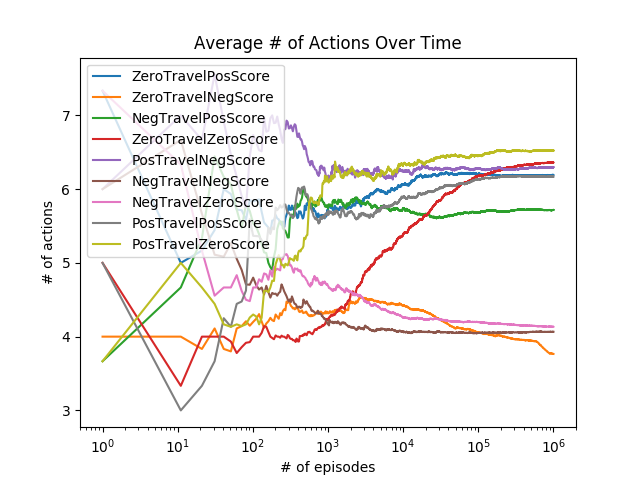
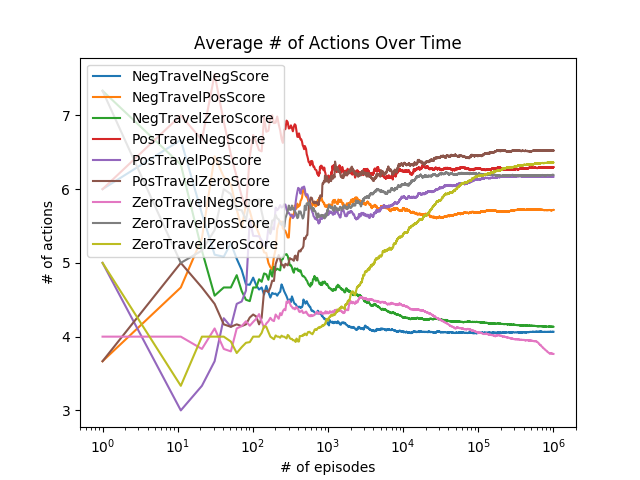
Added some results to the report.

Changed region(s): [[0.1562, 0.125, 0.875, 0.8438], [0.8125, 0.4062, 0.8438, 0.4375], [0.5938, 0.5, 0.625, 0.5312]]

diff --git a/report/result.tex b/report/result.tex
@@ -2,6 +2,116 @@
 
 \begin{document}
 
-\section*{\centering Result}
+    \section*{\centering Result}
+
+    In this part of the report we will present the result that have been gathered from our two experiments on reward functions and state representation. It will be presented in the order aforementioned.
+
+    \subsection*{Reward Experiment}
+
+    In this section the results given by the reward experiment are presented. All the following plots will show the same results for the different algorithms. Note that the left column contains result using the board state representation and the right column is result for using the directional distance state. All the results have been averaged over 3 different runs.
+
+    \begin{figure}[ht]
+        \centering
+        \begin{subfigure}[b]{.35\linewidth}
+            \includegraphics[width=\linewidth]{../images/qlearning/reward/234/board_state_average_food_count_over_time.png}
+        \end{subfigure}
+        \begin{subfigure}[b]{.35\linewidth}
+            \includegraphics[width=\linewidth]{../images/qlearning/reward/234/directional_distance_state_average_food_count_over_time.png}
+        \end{subfigure}
+
+        \begin{subfigure}[b]{.35\linewidth}
+            \includegraphics[width=\linewidth]{../images/qlearning/reward/234/board_state_average_reward_over_time.png}
+        \end{subfigure}
+        \begin{subfigure}[b]{.35\linewidth}
+            \includegraphics[width=\linewidth]{../images/qlearning/reward/234/directional_distance_state_average_reward_over_time.png}
+        \end{subfigure}
+        \caption{Results generated by Q-Learning.}
+        \label{fig:reward_result_qlearning}
+    \end{figure}
+
+    \begin{figure}[ht]
+        \centering
+        \begin{subfigure}[b]{.35\linewidth}
+            \includegraphics[width=\linewidth]{../images/sarsa/reward/234/board_state_average_food_count_over_time.png}
+        \end{subfigure}
+        \begin{subfigure}[b]{.35\linewidth}
+            \includegraphics[width=\linewidth]{../images/sarsa/reward/234/directional_distance_state_average_food_count_over_time.png}
+        \end{subfigure}
+
+        \begin{subfigure}[b]{.35\linewidth}
+            \includegraphics[width=\linewidth]{../images/sarsa/reward/234/board_state_average_reward_over_time.png}
+        \end{subfigure}
+        \begin{subfigure}[b]{.35\linewidth}
+            \includegraphics[width=\linewidth]{../images/sarsa/reward/234/directional_distance_state_average_reward_over_time.png}
+        \end{subfigure}
+        \caption{Results generated by Sarsa.}
+        \label{fig:reward_result_sarsa}
+    \end{figure}
+
+    \newpage
+
+    \begin{figure}[ht]
+        \centering
+        \begin{subfigure}[b]{.35\linewidth}
+            \includegraphics[width=\linewidth]{../images/expected_sarsa/reward/234/board_state_average_food_count_over_time.png}
+        \end{subfigure}
+        \begin{subfigure}[b]{.35\linewidth}
+            \includegraphics[width=\linewidth]{../images/expected_sarsa/reward/234/directional_distance_state_average_food_count_over_time.png}
+        \end{subfigure}
+
+        \begin{subfigure}[b]{.35\linewidth}
+            \includegraphics[width=\linewidth]{../images/expected_sarsa/reward/234/board_state_average_reward_over_time.png}
+        \end{subfigure}
+        \begin{subfigure}[b]{.35\linewidth}
+            \includegraphics[width=\linewidth]{../images/expected_sarsa/reward/234/directional_distance_state_average_reward_over_time.png}
+        \end{subfigure}
+        \caption{Results generated by Expected Sarsa.}
+        \label{fig:reward_result_expected_sarsa}
+    \end{figure}
+
+    The upper plots shows the average food the agent learns to eat on average which is the goal to maximize and the lower plots shows the average reward as a function of time for the different reward functions presented in the method.
+
+    What we mean by \enquote{average over time} is that we take the average of all data points up to (inclusive) the time we are interested in, i.e., a moving average with an infinite tail. In our case time refers to the number of episodes we have trained the model.
+
+    We also looked at the correlation between the curves in the column wise plots above \ref{tab:reward_food_corr}.
+
+    \begin {table}[H]
+        \begin{tabular}{c|c|c|}
+            \cline{2-3}
+            & \multicolumn{1}{ c| }{Avg. Correlation}
+            & \multicolumn{1}{ c| }{Avg. Abs. Correlation} \\
+            \cline{2-3}
+            & \multicolumn{2}{ c| }{Q-Learning} \\
+            \cline{1-3}
+            \multicolumn{1}{ |c|  }{Board State}
+            & 0.536742184842 & 0.945093533818 \\
+            \cline{1-3}
+            \multicolumn{1}{ |c|  }{Directional Distance State}
+            & 0.49589001223 & 0.973537777401 \\
+            \cline{1-3}
+            & \multicolumn{2}{ c| }{Sarsa} \\
+            \cline{1-3}
+            \multicolumn{1}{ |c|  }{Board State}
+            & 0.395990504669 & 0.978606301141 \\
+            \cline{1-3}
+            \multicolumn{1}{ |c|  }{Directional Distance State}
+            & 0.521129553421 & 0.963340845075 \\
+            \cline{1-3}
+            & \multicolumn{2}{ c| }{Expected Sarsa} \\
+            \cline{1-3}
+            \multicolumn{1}{ |c|  }{Board State}
+            & 0.457350122159 & 0.898156494946 \\
+            \cline{1-3}
+            \multicolumn{1}{ |c|  }{Directional Distance State}
+            & 0.507751828694 & 0.968662042717 \\
+            \cline{1-3}
+        \end{tabular}
+        \caption {Correlations between rewards and food counts.}
+        \label{tab:reward_food_corr}
+    \end{table}
+
+    \newpage
+
+    \subsubsection*{State Experiment}
 
 \end{document}

diff --git a/report/theory.tex b/report/theory.tex
@@ -207,7 +207,7 @@
 
     \subsubsection*{Q-Learning}
 
-    \textit{Q-learning} is a widely used algorithm that was developed by Watkins \cite{watkins1989learning} and variations of it is heavily used today combined with the emergence of neural networks \cite{van2016deep}. The update rule is defined as
+    \textit{Q-learning} is a widely used algorithm that was developed by Watkins \cite{watkins1989learning} and variations of it is heavily used today combined with the emergence of neural networks \cite{lange2010deep}, \cite{van2016deep}. The update rule is defined as
 
     \begin{align*}
         Q(S_t, A_t) &=

diff --git a/report/report.tex b/report/report.tex
@@ -8,13 +8,13 @@
 \usepackage{csquotes}
 
 \usepackage{graphicx}
+\usepackage{subcaption}
 \usepackage{float}
 \usepackage{multirow}
 \usepackage[font=scriptsize,labelfont=bf]{caption}
 
 \usepackage{amsmath, amssymb}
 \usepackage{bbm}
-% \usepackage[]{algorithm2e}
 \usepackage{algorithm}
 \usepackage{algorithmicx}
 \usepackage[noend]{algpseudocode}
